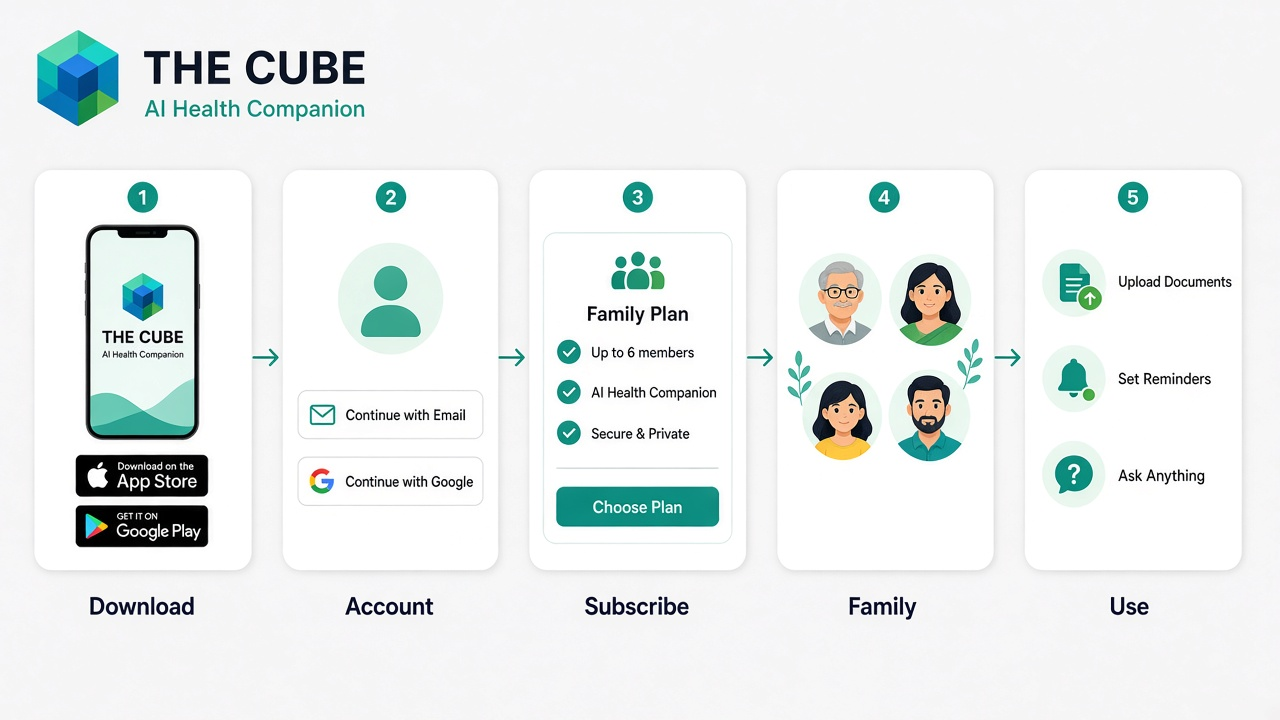
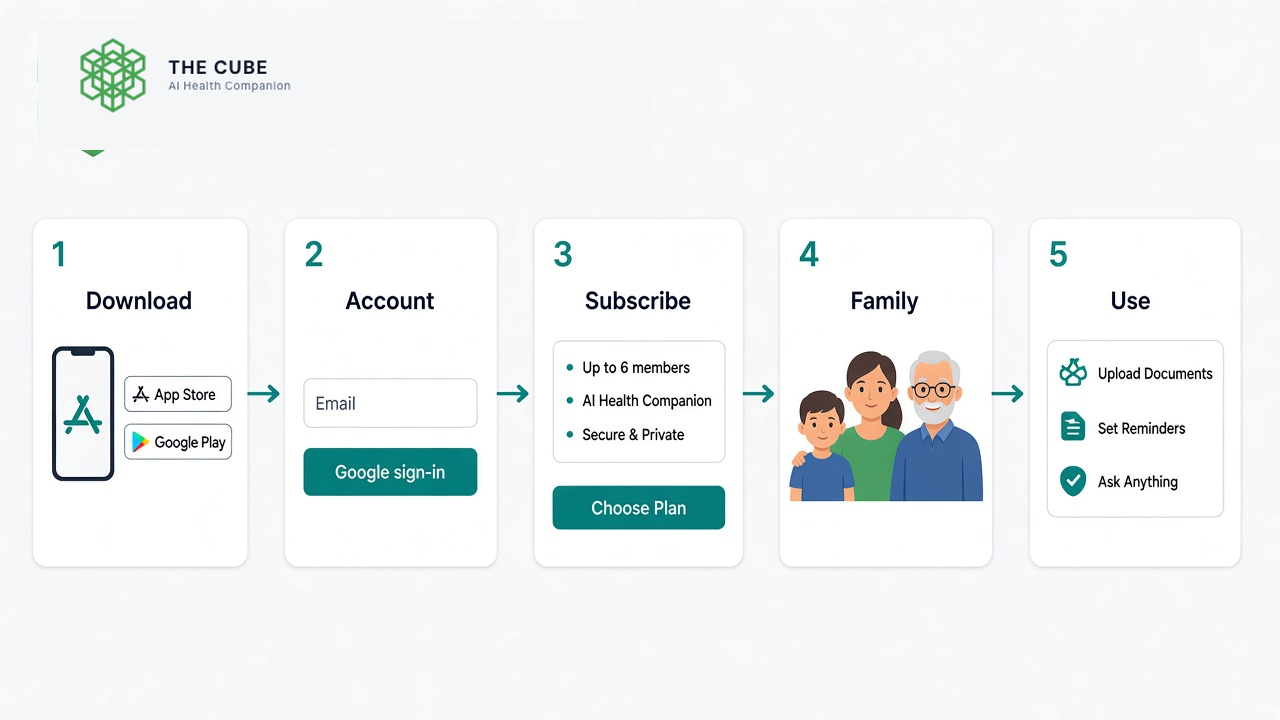
Use real Cube lockup on How it works flow

diff --git a/index.html b/index.html
@@ -9,7 +9,7 @@
   <link rel="preconnect" href="https://fonts.googleapis.com" />
   <link rel="preconnect" href="https://fonts.gstatic.com" crossorigin />
   <link href="https://fonts.googleapis.com/css2?family=DM+Sans:ital,opsz,wght@0,9..40,400;0,9..40,500;0,9..40,600;0,9..40,700;0,9..40,800;1,9..40,400&family=Instrument+Serif:ital@0;1&display=swap" rel="stylesheet" />
-  <link rel="stylesheet" href="styles.css?v=how2" />
+  <link rel="stylesheet" href="styles.css?v=how3" />
   <link rel="icon" type="image/png" href="assets/the-cube-logo-transparent.png" />
 </head>
 <body>
